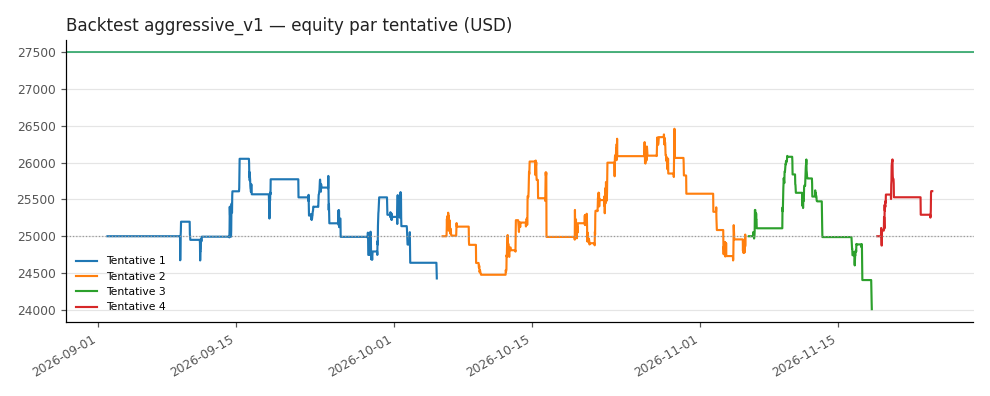
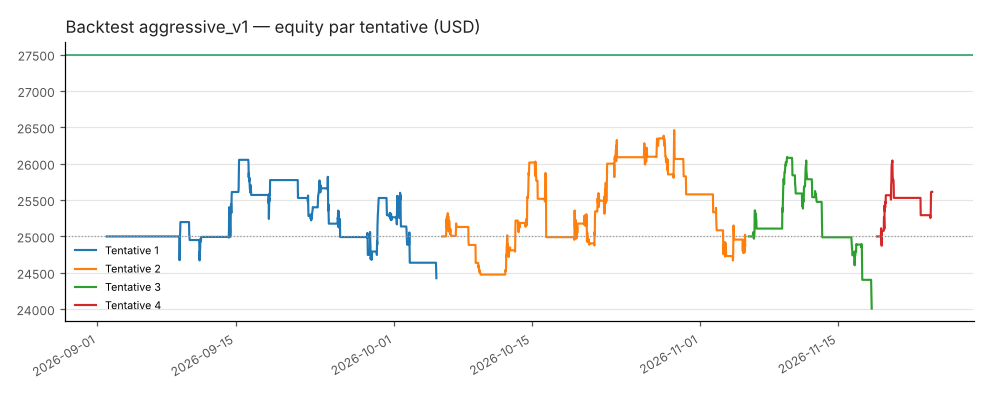
recherche: comparaison Yahoo / Dukascopy (spread réel) ajoutée au rapport
Claude-Session: https://claude.ai/code/session_01SV7eXbDKKrG83hpxMdcYDC

diff --git a/report.py b/report.py
@@ -221,6 +221,16 @@ def research_section():
         for a in w["attempts"]:
             L.append(f"| {a['attempt']} | {a['status']} | {a['start']} | {a['end']} | {a['days']} | {_fmt(a['balance'])} | {a['reason']} |")
         L.append("\n</details>")
+    dk = os.path.join(DOCS, "research", "duka_compare.json")
+    if os.path.exists(dk):
+        d = json.load(open(dk))
+        L.append("\n" + _read("docs/research/duka.md"))
+        L.append("\n| Instrument | Spread médian réel | Spread médian à l'ouverture | Spread config |\n|---|---:|---:|---:|")
+        for x in d["spreads"]:
+            L.append(f"| {x['sym']} | {x['median']:.5g} | {x['open_median']:.5g} | {x['config']:.5g} |")
+        L.append("\n| Stratégie | Données | Trades | R/trade | Profit factor | P&L net | Challenges réussis / terminés |\n|---|---|---:|---:|---:|---:|---:|")
+        for x in d["runs"]:
+            L.append(f"| `{x['strategy']}` | {x['data']} | {x['n']} | {_fmt(x['exp_R'], 3)} | {_fmt(x['pf'])} | {_fmt(x['pnl'])} $ | {x['n_pass']} / {x['n_completed']} |")
     L.append("\n" + _read("docs/research/conclusion.md"))
     return "\n".join(L)
 

diff --git a/RAPPORT.md b/RAPPORT.md
@@ -310,6 +310,41 @@ Objectif : chercher honnêtement s'il existe une variante avec un **avantage ré
 
 </details>
 
+#### Données de qualité broker (Dukascopy) contre Yahoo — 21/09 → 20/11/2026, bougies 5 min
+
+Dukascopy publie gratuitement le bid et l'ask minute par minute. Les bougies sont calculées au prix milieu, et le spread réel de chaque bougie remplace le spread fixe de la config (le glissement et les commissions restent identiques). Le troisième jeu de données (« Dukascopy, spread fixe ») isole l'effet de la qualité des prix, sans l'effet du coût.
+
+**Ce qu'on apprend :**
+- Les spreads réels sont **plus faibles** que ceux de la config pour les indices et le FX (EURUSD ≈ 0,3 pip contre 1 pip). Ils sont en revanche **plus élevés** pour l'or.
+- Le plus gros écart ne vient pas du spread mais **des prix eux-mêmes** : avec le même spread fixe, `aggressive_v1` passe de −10 R (Yahoo) à −1 R (Dukascopy). Les bougies Yahoo des contrats à terme (NQ=F, YM=F) ne sont pas les CFD cotés par un broker : les plus hauts et plus bas diffèrent, et donc les stops touchés aussi.
+- Avec les prix de broker, `aggressive_v1` et `orb_ref` sont **à l'équilibre** (+0,02 à +0,03 R par trade), pas gagnants. `orb_v4_trend` reste la seule variante nettement positive (+0,11 R/trade, 90 trades), mais elle était déjà négative sur 2 ans en walk-forward (bougies 1 h). Deux mois ne suffisent pas à conclure.
+- Sur la période, il y a 0 ou 1 challenge réussi par variante et par jeu de données.
+
+
+| Instrument | Spread médian réel | Spread médian à l'ouverture | Spread config |
+|---|---:|---:|---:|
+| US100 | 1.4528 | 0.9685 | 2 |
+| US30 | 1.9788 | 1.4932 | 3 |
+| XAUUSD | 0.566 | 0.542 | 0.35 |
+| GER40 | 1.6416 | 1.1438 | 2 |
+| EURUSD | 2.8e-05 | 2.8e-05 | 0.0001 |
+| GBPUSD | 5.8e-05 | 5.6e-05 | 0.00012 |
+
+| Stratégie | Données | Trades | R/trade | Profit factor | P&L net | Challenges réussis / terminés |
+|---|---|---:|---:|---:|---:|---:|
+| `aggressive_v1` | Yahoo, spread fixe pessimiste | 93 | -0.110 | 0.81 | -2 547.17 $ | 0 / 3 |
+| `aggressive_v1` | Dukascopy, spread réel | 96 | 0.022 | 1.04 | 537.47 $ | 1 / 2 |
+| `aggressive_v1` | Dukascopy, spread fixe pessimiste | 96 | -0.011 | 0.98 | -261.47 $ | 1 / 3 |
+| `orb_ref` | Yahoo, spread fixe pessimiste | 114 | -0.070 | 0.87 | -1 998.27 $ | 0 / 2 |
+| `orb_ref` | Dukascopy, spread réel | 128 | 0.029 | 1.06 | 936.72 $ | 0 / 1 |
+| `orb_ref` | Dukascopy, spread fixe pessimiste | 127 | 0.019 | 1.04 | 591.68 $ | 0 / 1 |
+| `orb_v4_trend` | Yahoo, spread fixe pessimiste | 69 | 0.172 | 1.35 | 2 964.05 $ | 1 / 2 |
+| `orb_v4_trend` | Dukascopy, spread réel | 90 | 0.114 | 1.25 | 2 564.96 $ | 1 / 2 |
+| `orb_v4_trend` | Dukascopy, spread fixe pessimiste | 92 | 0.136 | 1.32 | 3 120.17 $ | 1 / 2 |
+| `orb_v2_tight` | Yahoo, spread fixe pessimiste | 137 | -0.145 | 0.75 | -4 978.44 $ | 0 / 3 |
+| `orb_v2_tight` | Dukascopy, spread réel | 137 | -0.066 | 0.88 | -2 254.07 $ | 1 / 4 |
+| `orb_v2_tight` | Dukascopy, spread fixe pessimiste | 137 | -0.067 | 0.87 | -2 277.66 $ | 1 / 4 |
+
 #### Contrôles complémentaires
 
 | Contrôle | Résultat |

diff --git a/docs/research/duka.md b/docs/research/duka.md
@@ -1,0 +1,9 @@
+#### Données de qualité broker (Dukascopy) contre Yahoo — 21/09 → 20/11/2026, bougies 5 min
+
+Dukascopy publie gratuitement le bid et l'ask minute par minute. Les bougies sont calculées au prix milieu, et le spread réel de chaque bougie remplace le spread fixe de la config (le glissement et les commissions restent identiques). Le troisième jeu de données (« Dukascopy, spread fixe ») isole l'effet de la qualité des prix, sans l'effet du coût.
+
+**Ce qu'on apprend :**
+- Les spreads réels sont **plus faibles** que ceux de la config pour les indices et le FX (EURUSD ≈ 0,3 pip contre 1 pip). Ils sont en revanche **plus élevés** pour l'or.
+- Le plus gros écart ne vient pas du spread mais **des prix eux-mêmes** : avec le même spread fixe, `aggressive_v1` passe de −10 R (Yahoo) à −1 R (Dukascopy). Les bougies Yahoo des contrats à terme (NQ=F, YM=F) ne sont pas les CFD cotés par un broker : les plus hauts et plus bas diffèrent, et donc les stops touchés aussi.
+- Avec les prix de broker, `aggressive_v1` et `orb_ref` sont **à l'équilibre** (+0,02 à +0,03 R par trade), pas gagnants. `orb_v4_trend` reste la seule variante nettement positive (+0,11 R/trade, 90 trades), mais elle était déjà négative sur 2 ans en walk-forward (bougies 1 h). Deux mois ne suffisent pas à conclure.
+- Sur la période, il y a 0 ou 1 challenge réussi par variante et par jeu de données.
